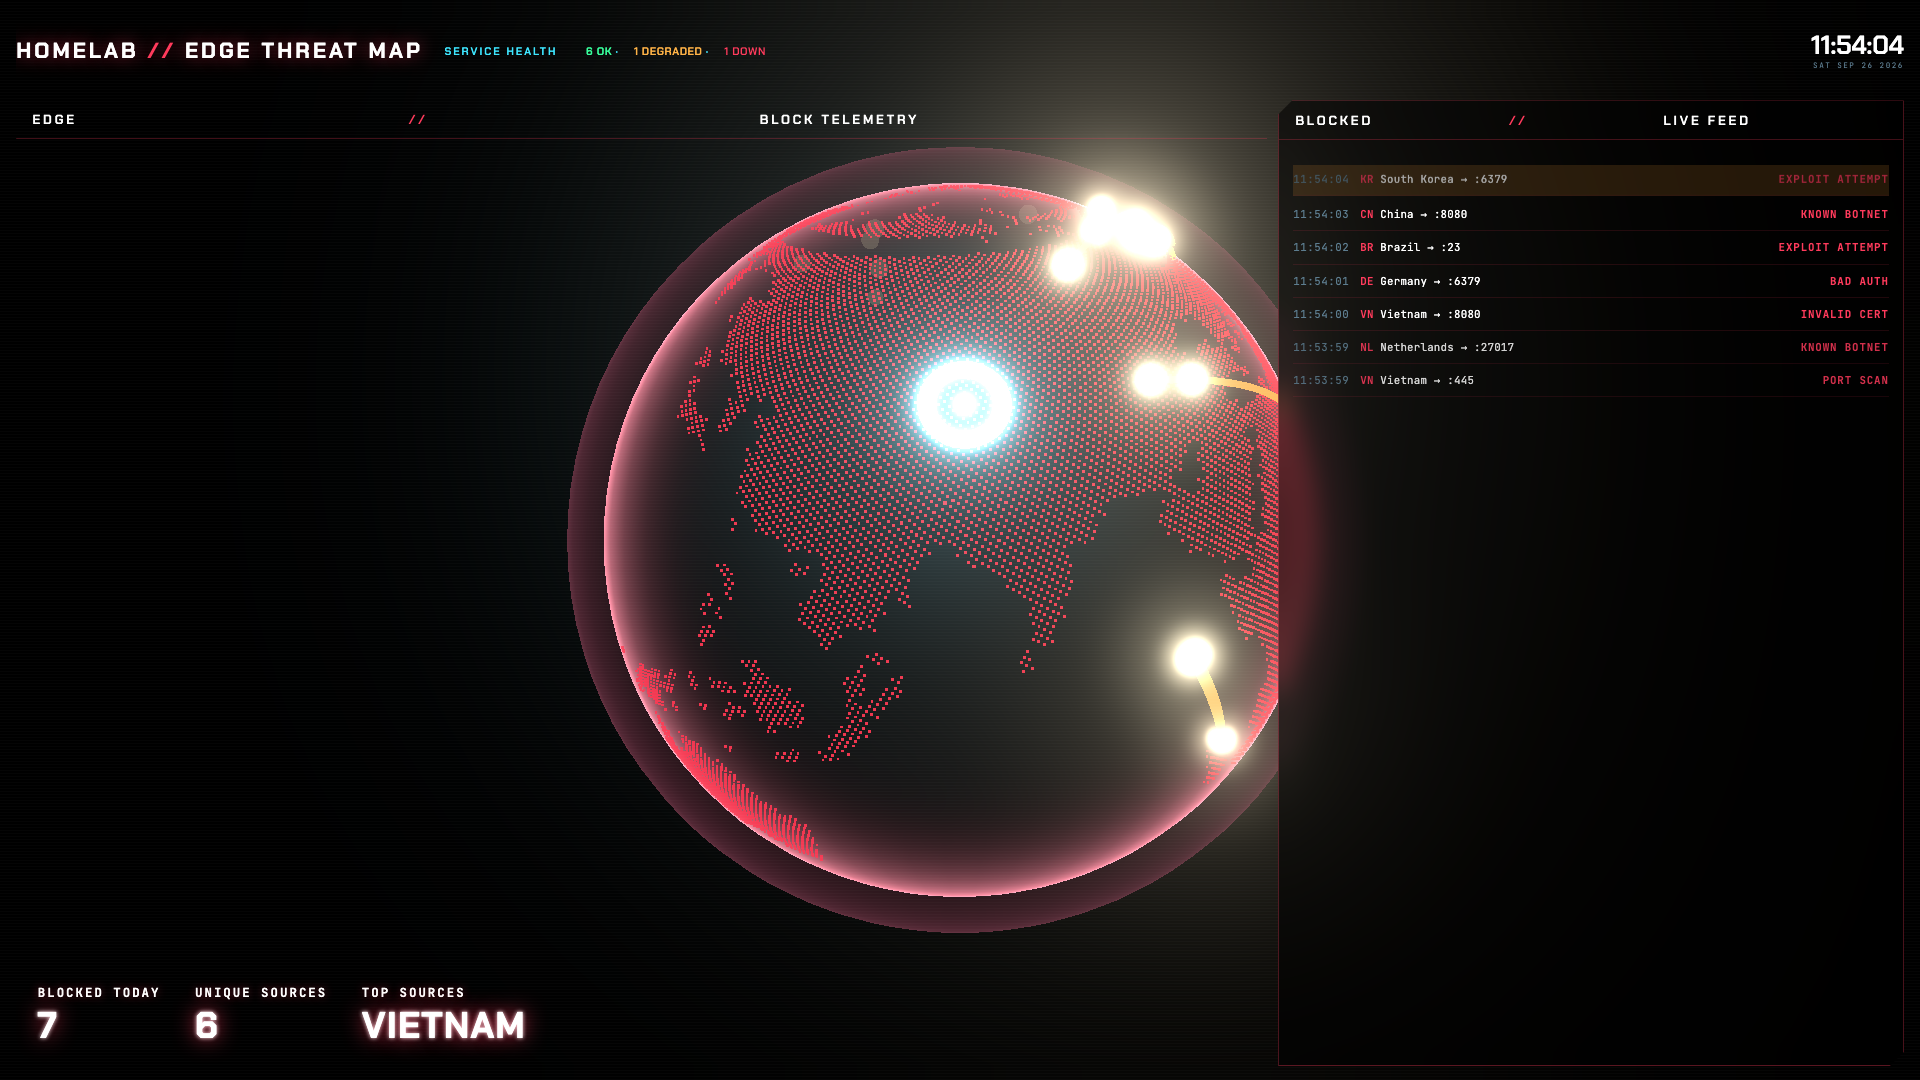
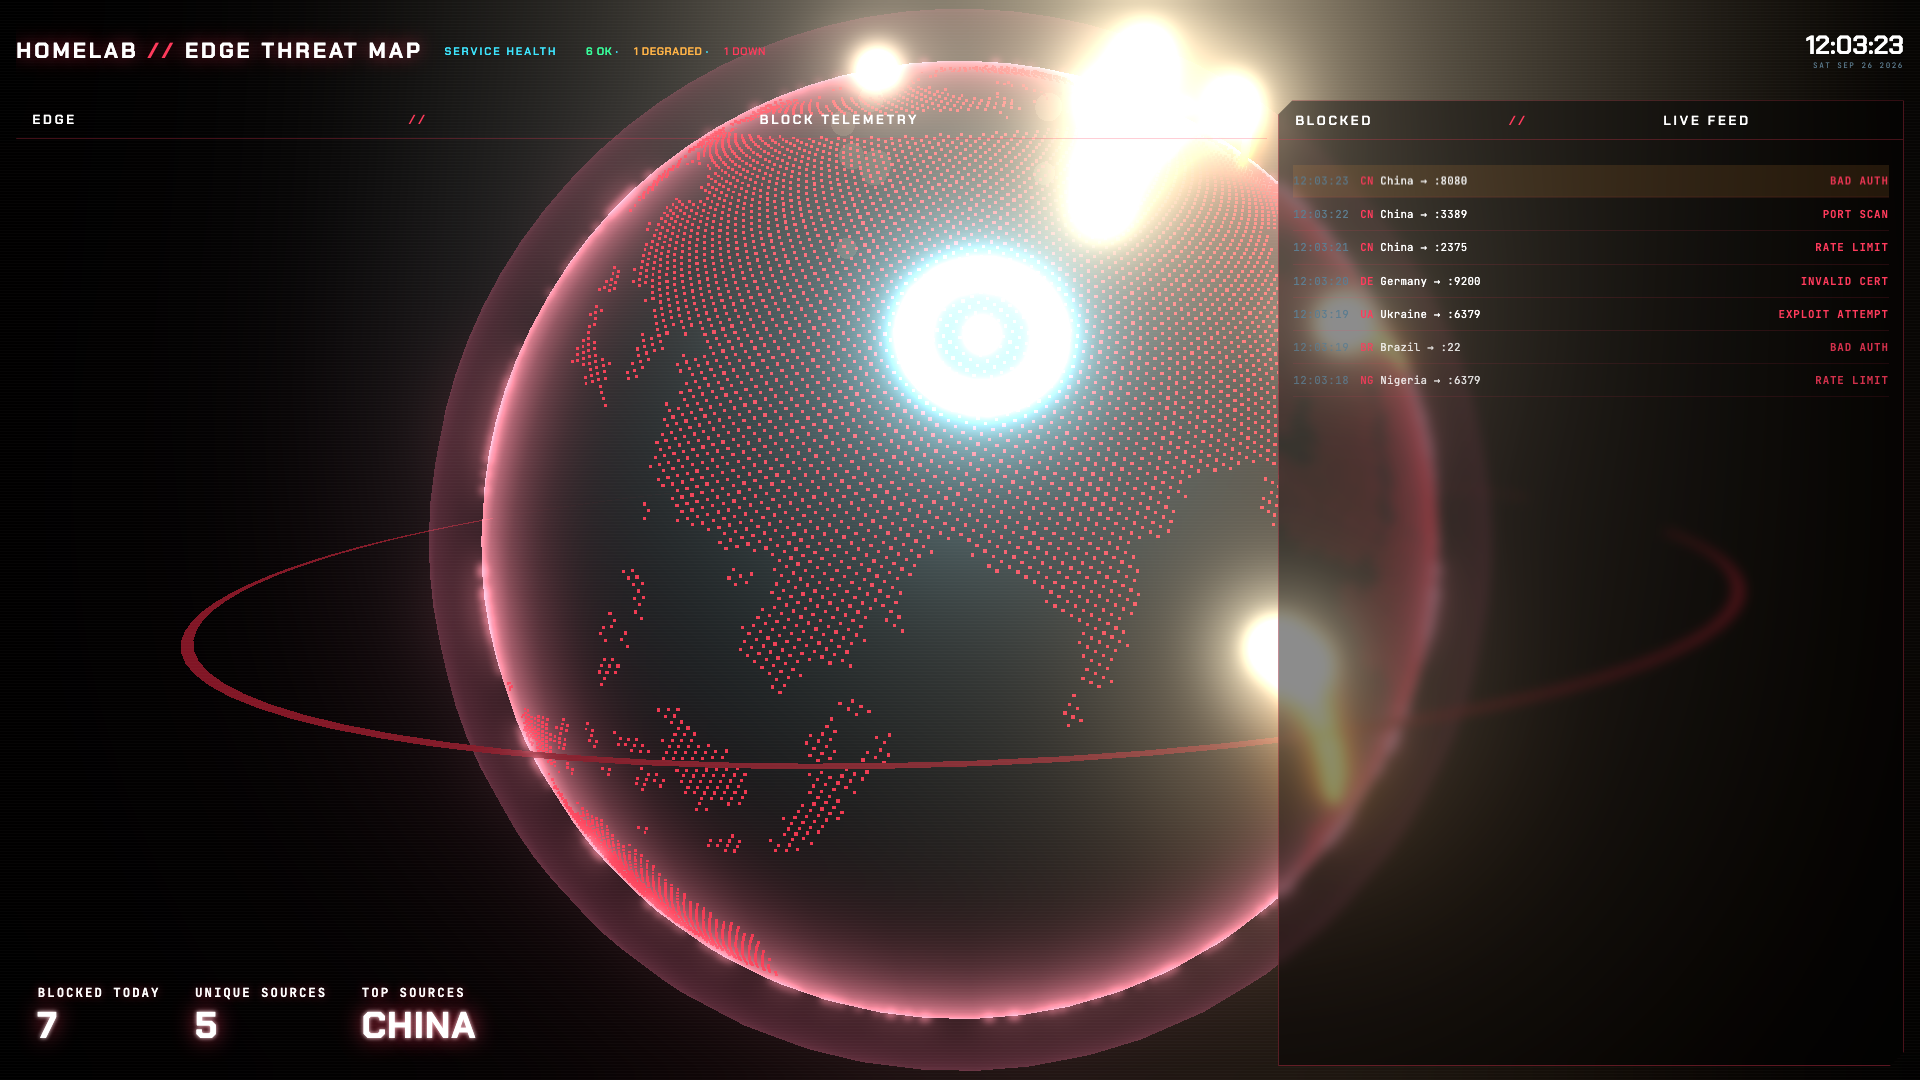
fix(wall): scale MC2/MC4 hero scenes to span the full viewport
Round-2 review fixes: MC4's tori/tube scene scales 1.8x so the tube spans
edge to edge behind both side columns; MC2's globe/arcs scale 1.3x and
overflow the top/bottom edges, with a faint orbit ring filling the
previously-empty left side, more concurrent arcs, and a slower camera drift
tuned for the bigger scene. Both pages' glass side panels are more
translucent (rgba(0,0,0,.45), blur(6px)) so the scene shows through more
clearly, and both scenes' bloom is tuned for a visible soft-glow halo
instead of relying on additive particle sprites alone. MC4's download-client
column now stretches its throughput chart to fill the column instead of
leaving dead space above/below. Also removes an unused mc2.js variable.

Assisted-by: Claude:Sonnet 5
Claude-Session: https://claude.ai/code/session_01NMFoeki5AFRtcpDmd74e6T

diff --git a/site/mc2/mc2.js b/site/mc2/mc2.js
@@ -125,7 +125,6 @@ scheduleFeed();
 onDispose(() => clearTimeout(feedId));
 
 /* ---------------- globe: real land mask, animated great-circle arcs ---------------- */
-const threatPanel = $('threat');
 const globeCanvas = $('globe');
 const forced = new URLSearchParams(location.search).get('gl');
 let drawGlobe;
@@ -157,6 +156,9 @@ function buildGlobe() {
   const cam = new THREE.PerspectiveCamera(48, 1, 1, 1000);
   cam.position.set(0, 0, 285);
   const group = new THREE.Group();
+  // Lead review (round 2): 1.3x so the globe overflows the top/bottom edges and reaches further
+  // into the screen's empty left half instead of sitting small and centre-right.
+  group.scale.setScalar(1.3);
   scene.add(group);
 
   // Land-mask point cloud: a Fibonacci sphere distribution, kept only where the real coastline
@@ -207,8 +209,16 @@ function buildGlobe() {
       }),
     );
   }
-  scene.add(fresnelShell(80.6, new THREE.Color(1.6, 0.45, 0.6), 6, 1)); // thin crisp rim
-  scene.add(fresnelShell(88, new THREE.Color(0.9, 0.2, 0.35), 3.5, 0.14)); // subtle wide outer glow
+  group.add(fresnelShell(80.6, new THREE.Color(1.6, 0.45, 0.6), 6, 1)); // thin crisp rim
+  group.add(fresnelShell(88, new THREE.Color(0.9, 0.2, 0.35), 3.5, 0.14)); // subtle wide outer glow
+  // A faint wide orbit ring, well outside the globe — fills the screen's dead space (especially
+  // the empty left half) instead of leaving it flat black.
+  const orbitRing = new THREE.Mesh(
+    new THREE.RingGeometry(118, 119.4, 96, 1, 0, Math.PI * 2 * 0.94),
+    new THREE.MeshBasicMaterial({ color: 0xff3350, transparent: true, opacity: 0.22, side: THREE.DoubleSide }),
+  );
+  orbitRing.rotation.x = Math.PI / 2.35;
+  group.add(orbitRing);
 
   const llToVec = (lat, lon, h = 80) => {
     const la = lat * Math.PI / 180, lo = lon * Math.PI / 180;
@@ -247,7 +257,7 @@ function buildGlobe() {
   // concurrent arcs is enough bloom-eligible surface area to fog the whole panel.
   const tubeMat = () => new THREE.MeshBasicMaterial({ color: 0xffb454, transparent: true, opacity: 1 });
   function spawnArc() {
-    if (arcs.length >= 30) return;
+    if (arcs.length >= 26) return;
     const src = THREAT_SOURCES[(Math.random() * THREAT_SOURCES.length) | 0];
     const a = llToVec(src.lat, src.lon);
     // Apex fixed to 0.25-0.4 globe radii above the surface (never scaled by source distance, so
@@ -263,7 +273,7 @@ function buildGlobe() {
     group.add(head);
     arcs.push({ tube, tubeGeo, curve, head, t: 0 });
   }
-  const spawnId = RM ? null : setInterval(spawnArc, 300);
+  const spawnId = RM ? null : setInterval(spawnArc, 140);
   onDispose(() => { if (spawnId) clearInterval(spawnId); });
 
   const pulseMat = () => { const m = new THREE.MeshBasicMaterial({ color: 0x9beeff, transparent: true, opacity: 0.85, side: THREE.DoubleSide }); m.color.multiplyScalar(1.6); return m; };
@@ -271,7 +281,7 @@ function buildGlobe() {
     // Cap concurrent pulses: several overlapping additive-blended rings at the same point stack
     // into a blown-out white blob instead of reading as a beacon — a hard cap keeps HOME a crisp
     // pulsing point no matter how many arcs land close together.
-    if (pulses.length >= 3) return;
+    if (pulses.length >= 6) return;
     const ring = new THREE.Mesh(new THREE.RingGeometry(1, 1.7, 28), pulseMat());
     ring.position.copy(home);
     ring.lookAt(0, 0, 0);
@@ -280,7 +290,7 @@ function buildGlobe() {
   }
   let beaconT = 0;
 
-  const bloomFx = makeBloom(renderer, scene, cam, { strength: 0.9, radius: 0.32, threshold: 0.65 });
+  const bloomFx = makeBloom(renderer, scene, cam, { strength: 1.25, radius: 0.4, threshold: 0.52 });
   // The canvas is a full-viewport fixed layer now (mc2.css #globe), not the "threat" panel's box —
   // size the backing store from the viewport itself (document.documentElement's ResizeObserver
   // fires on viewport resize) rather than any one panel.
@@ -290,12 +300,13 @@ function buildGlobe() {
     // visible face at all times, per the alignment above, instead of orbiting away each cycle.
     const wobble = RM ? 0.08 : Math.sin(now / 9000) * 0.12;
     group.quaternion.copy(alignQuat).multiply(new THREE.Quaternion().setFromAxisAngle(wobbleAxis, wobble));
+    orbitRing.rotation.z += RM ? 0 : 0.0016;
     // Slow camera drift (shock-and-awe): the globe's own orientation is pinned (HOME must stay
     // on the visible face), so the "alive, not static" motion comes from the camera instead — a
     // slow figure-eight-ish orbit around the default position, never enough to lose the globe.
     if (!RM) {
-      cam.position.x = Math.sin(now / 14000) * 34;
-      cam.position.y = Math.sin(now / 21000) * 20;
+      cam.position.x = Math.sin(now / 14000) * 18;
+      cam.position.y = Math.sin(now / 21000) * 10;
       cam.lookAt(0, 0, 0);
     }
     homeMarker.scale.setScalar(1 + 0.22 * Math.sin(now / 260));

diff --git a/site/mc4/mc4.css b/site/mc4/mc4.css
@@ -29,8 +29,8 @@ header{grid-column:1/-1;position:relative;z-index:1;display:flex;align-items:cen
 /* Dark-glass side panels: the hero scene shows through, text stays legible. `contain` is
    deliberately NOT used here (see the #corecanvas comment in index.html — it would make this
    panel a containing block for any position:fixed descendant). */
-.panel-glass{background:rgba(0,0,0,.55);border:1px solid rgba(255,179,71,.35);
-  backdrop-filter:blur(14px);-webkit-backdrop-filter:blur(14px)}
+.panel-glass{background:rgba(0,0,0,.45);border:1px solid rgba(255,179,71,.35);
+  backdrop-filter:blur(6px);-webkit-backdrop-filter:blur(6px)}
 /* The former hero-scene panel: frame and background gone, only the title remains, floating
    directly over the fullscreen canvas. */
 .panel-frameless{background:none;border:none}
@@ -46,7 +46,12 @@ header{grid-column:1/-1;position:relative;z-index:1;display:flex;align-items:cen
 .mc4 .panel [data-panel-message]{color:var(--amber);font:600 9px/1 var(--mono);letter-spacing:.1em;white-space:nowrap}
 
 .cardbody{flex:1;min-height:0;overflow:auto;padding:clamp(6px,1vmin,12px) clamp(8px,1.2vmin,14px);
-  display:flex;flex-direction:column;gap:clamp(10px,1.6vmin,20px);justify-content:center}
+  display:flex;flex-direction:column;gap:clamp(10px,1.6vmin,20px)}
+/* No-empty-space fix: the throughput card (always first in .cardbody) grows to fill whatever
+   space the other, natural-height cards don't use, instead of the column centering fixed-height
+   cards with dead space above/below. */
+.cardbody>.card:first-child{flex:1;min-height:0;display:flex;flex-direction:column}
+.cardbody>.card:first-child .through{flex:1;height:auto;min-height:0}
 
 /* Legible download-client/library cards: bigger headline numbers, not tiny faint text
    (the live-wall finding) — .ct/.cn sizes bumped from the pre-hero-scene layout. */

diff --git a/site/mc4/mc4.js b/site/mc4/mc4.js
@@ -206,7 +206,7 @@ function build3DFlow() {
   const cam = new THREE.PerspectiveCamera(50, 1, 1, 2000);
   cam.position.set(0, 18, 165);
   cam.lookAt(0, 0, 0);
-  const bloomFx = makeBloom(renderer, scene, cam, { strength: 1.0, radius: 0.32, threshold: 0.6 });
+  const bloomFx = makeBloom(renderer, scene, cam, { strength: 1.35, radius: 0.4, threshold: 0.5 });
 
   const group = new THREE.Group(); scene.add(group);
 
@@ -250,9 +250,12 @@ function build3DFlow() {
   // Accretion disk: two coplanar rings (a lit outer ring, a dim base underneath so the "gap" reads
   // as a disk rather than a flat circle).
   const disk = new THREE.Mesh(new THREE.RingGeometry(25, 31, 90, 1, 0, Math.PI * 2 * 0.86), new THREE.MeshBasicMaterial({ color: 0xffb347, side: THREE.DoubleSide, transparent: true, opacity: 0.6 }));
-  disk.rotation.x = -Math.PI / 2; disk.position.y = -17; scene.add(disk);
+  disk.rotation.x = -Math.PI / 2; disk.position.y = -17; group.add(disk);
   const diskBase = new THREE.Mesh(new THREE.RingGeometry(25, 31, 90), new THREE.MeshBasicMaterial({ color: 0x3a2208, side: THREE.DoubleSide }));
-  diskBase.rotation.x = -Math.PI / 2; diskBase.position.y = -17.2; scene.add(diskBase);
+  diskBase.rotation.x = -Math.PI / 2; diskBase.position.y = -17.2; group.add(diskBase);
+  // Lead review (round 2): 1.8x so the tube runs full viewport width, edge to edge, behind both
+  // side columns, not confined to the centre.
+  group.scale.setScalar(1.8);
 
   const resizeAt = (w, h) => { renderer.setSize(w, h, false); bloomFx.setSize(w, h); cam.aspect = w / (h || 1); cam.updateProjectionMatrix(); };
   // The canvas is a full-viewport fixed layer now (mc4.css #corecanvas), not the "core" panel's

diff --git a/site/mc2/mc2.css b/site/mc2/mc2.css
@@ -37,8 +37,8 @@
 /* Dark-glass side panels: the hero scene shows through, text stays legible. `contain` is
    deliberately NOT used here (see the #globe comment above — it would make this panel a
    containing block for any position:fixed descendant). */
-.panel-glass{background:rgba(0,0,0,.55);border:1px solid rgba(255,59,92,.35);
-  backdrop-filter:blur(14px);-webkit-backdrop-filter:blur(14px)}
+.panel-glass{background:rgba(0,0,0,.45);border:1px solid rgba(255,59,92,.35);
+  backdrop-filter:blur(6px);-webkit-backdrop-filter:blur(6px)}
 /* The former hero-scene panel: frame and background gone, only the title (and any absolute
    overlay content, e.g. #tstats) remain, floating directly over the fullscreen canvas. */
 .panel-frameless{background:none;border:none}
